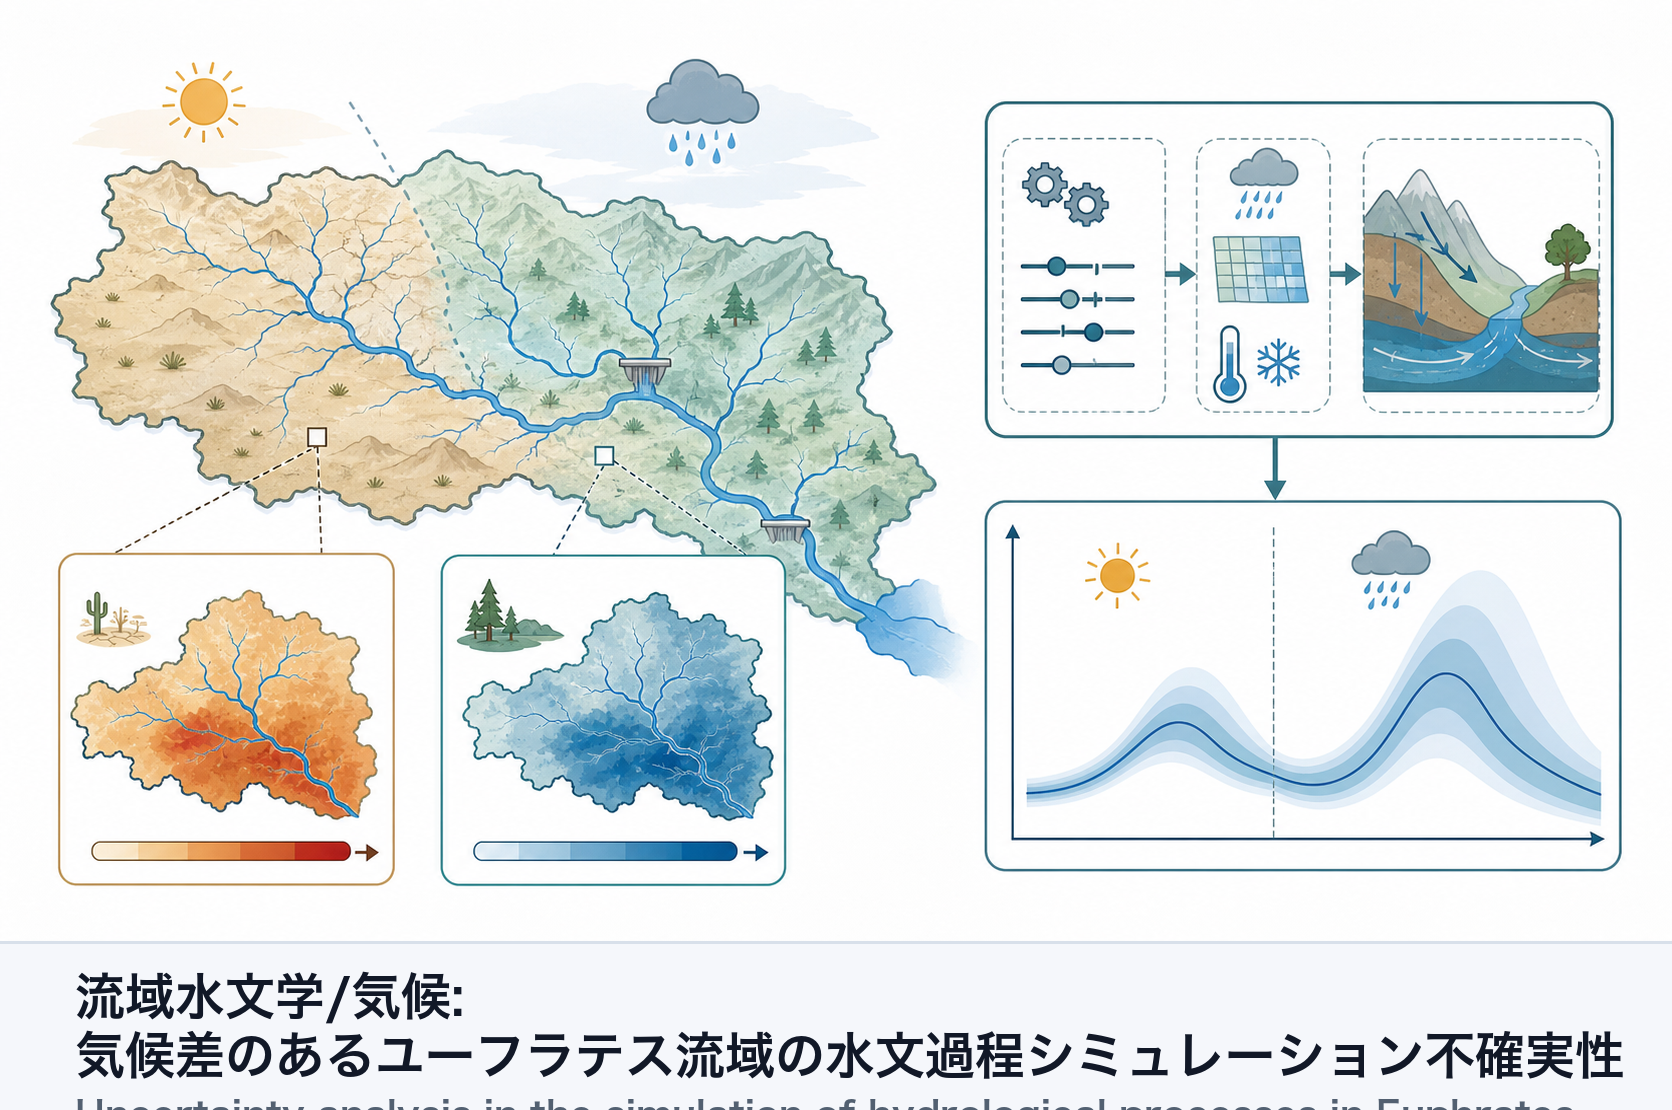
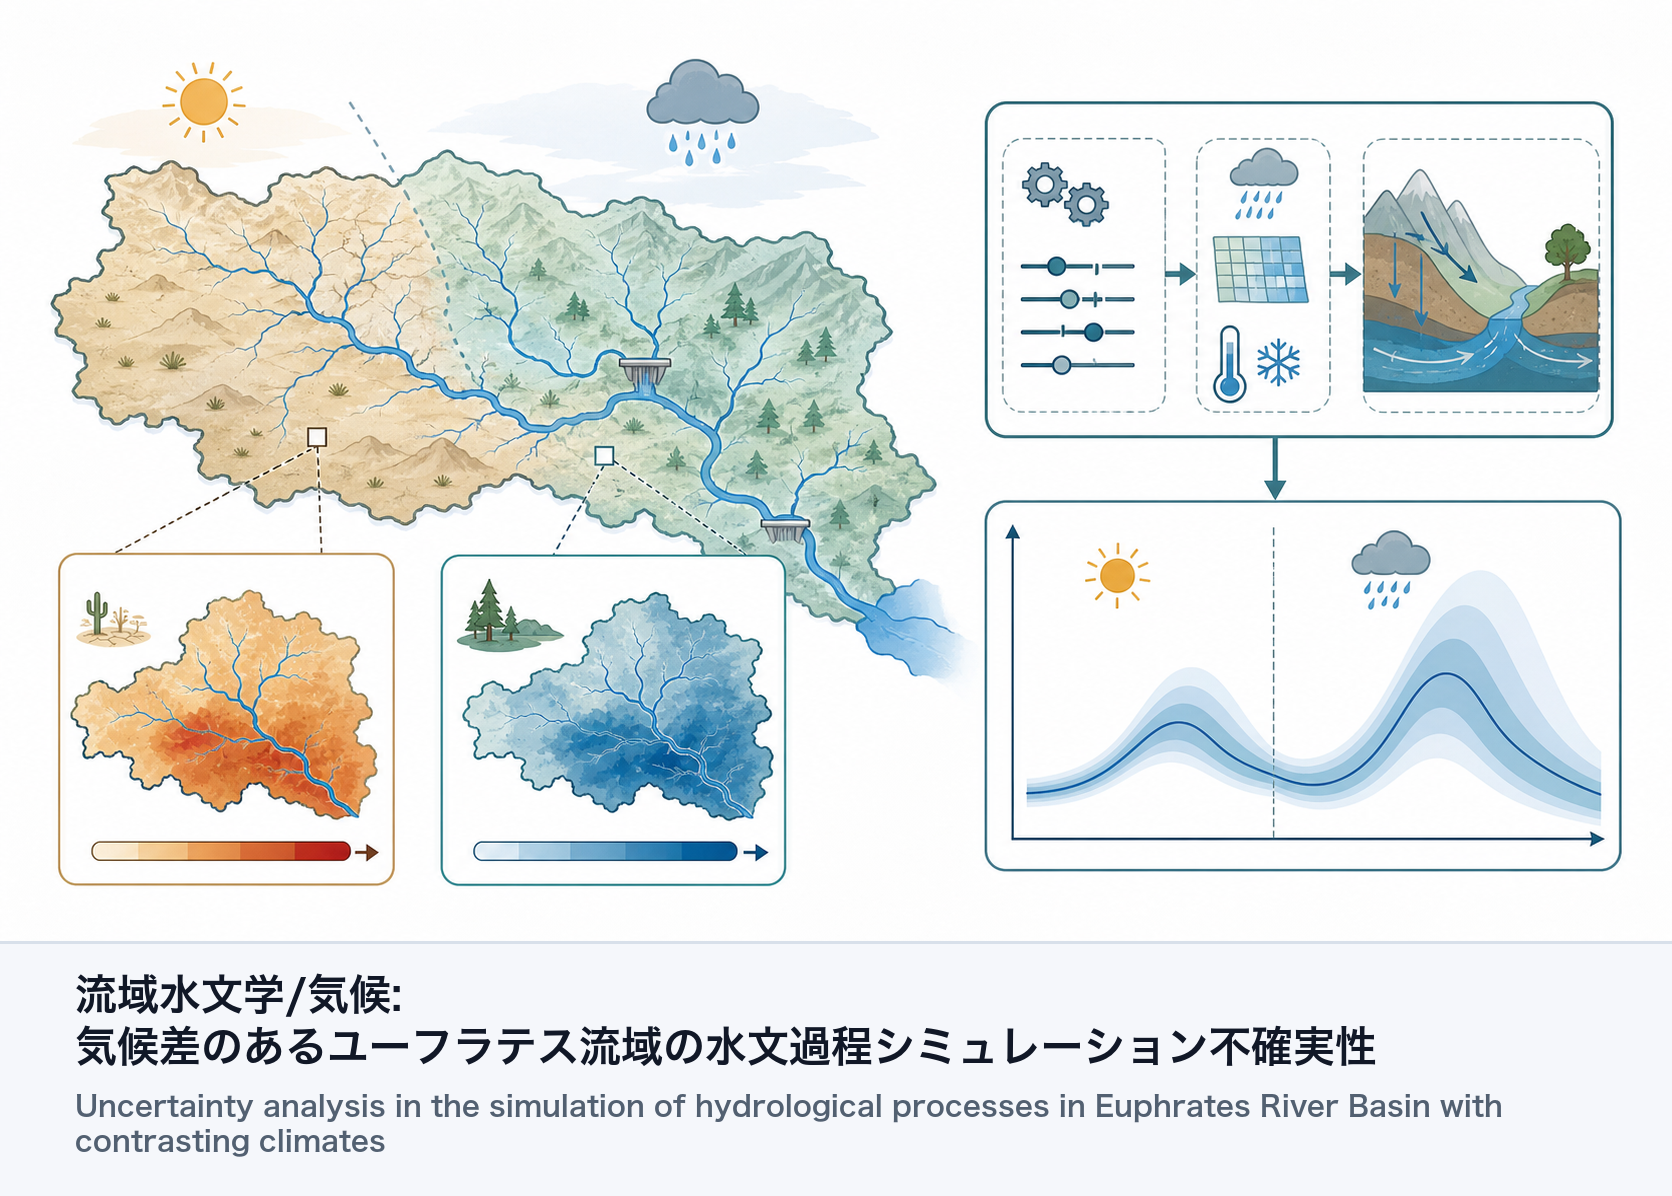
Fix 2026-05-25 graphical abstract captions

diff --git a/private/private_report_2026-05-25.html b/private/private_report_2026-05-25.html
@@ -41,7 +41,7 @@
 <body>
 	  <header>
 	    <h1>Daily ecology/evolution 24h report (private)</h1>
-	    <p>Date (JST): 2026-05-25 / generated (UTC): 2026-05-25T10:01:18Z</p>
+	    <p>Date (JST): 2026-05-25 / generated (UTC): 2026-05-25T11:47:13Z</p>
 	    <p>Policy: 論文の元図（出版社図）は埋め込みません（リンクのみ）。Graphical abstractは生成画像を埋め込みます。</p>
 	  </header>
   <nav>
@@ -71,7 +71,7 @@
 	  <section class="block">
 	    <h3>Graphical abstract (generated)</h3>
 	    <figure class="ga">
-	      <img src="../assets/image2/ga_2026-05-25_01_10-1038-s41598-026-50645-5.png" alt="Graphical abstract for 10.1038/s41598-026-50645-5">
+	      <img src="../assets/image2/ga_2026-05-25_01_10-1038-s41598-026-50645-5.png?v=caption-2" alt="Graphical abstract for 10.1038/s41598-026-50645-5">
 	    </figure>
 	  </section>
 
@@ -123,7 +123,7 @@
 	  <section class="block">
 	    <h3>Graphical abstract (generated)</h3>
 	    <figure class="ga">
-	      <img src="../assets/image2/ga_2026-05-25_02_10-1038-s41598-026-54737-0.png" alt="Graphical abstract for 10.1038/s41598-026-54737-0">
+	      <img src="../assets/image2/ga_2026-05-25_02_10-1038-s41598-026-54737-0.png?v=caption-2" alt="Graphical abstract for 10.1038/s41598-026-54737-0">
 	    </figure>
 	  </section>
 
@@ -175,7 +175,7 @@
 	  <section class="block">
 	    <h3>Graphical abstract (generated)</h3>
 	    <figure class="ga">
-	      <img src="../assets/image2/ga_2026-05-25_03_10-1038-s41598-026-54623-9.png" alt="Graphical abstract for 10.1038/s41598-026-54623-9">
+	      <img src="../assets/image2/ga_2026-05-25_03_10-1038-s41598-026-54623-9.png?v=caption-2" alt="Graphical abstract for 10.1038/s41598-026-54623-9">
 	    </figure>
 	  </section>
 
@@ -227,7 +227,7 @@
 	  <section class="block">
 	    <h3>Graphical abstract (generated)</h3>
 	    <figure class="ga">
-	      <img src="../assets/image2/ga_2026-05-25_04_10-1038-s41598-026-52149-8.png" alt="Graphical abstract for 10.1038/s41598-026-52149-8">
+	      <img src="../assets/image2/ga_2026-05-25_04_10-1038-s41598-026-52149-8.png?v=caption-2" alt="Graphical abstract for 10.1038/s41598-026-52149-8">
 	    </figure>
 	  </section>
 
@@ -279,7 +279,7 @@
 	  <section class="block">
 	    <h3>Graphical abstract (generated)</h3>
 	    <figure class="ga">
-	      <img src="../assets/image2/ga_2026-05-25_05_10-1038-s41598-026-49589-7.png" alt="Graphical abstract for 10.1038/s41598-026-49589-7">
+	      <img src="../assets/image2/ga_2026-05-25_05_10-1038-s41598-026-49589-7.png?v=caption-2" alt="Graphical abstract for 10.1038/s41598-026-49589-7">
 	    </figure>
 	  </section>
 
@@ -331,7 +331,7 @@
 	  <section class="block">
 	    <h3>Graphical abstract (generated)</h3>
 	    <figure class="ga">
-	      <img src="../assets/image2/ga_2026-05-25_06_10-1038-s41598-026-53304-x.png" alt="Graphical abstract for 10.1038/s41598-026-53304-x">
+	      <img src="../assets/image2/ga_2026-05-25_06_10-1038-s41598-026-53304-x.png?v=caption-2" alt="Graphical abstract for 10.1038/s41598-026-53304-x">
 	    </figure>
 	  </section>
 
@@ -383,7 +383,7 @@
 	  <section class="block">
 	    <h3>Graphical abstract (generated)</h3>
 	    <figure class="ga">
-	      <img src="../assets/image2/ga_2026-05-25_07_10-1038-s41598-026-52727-w.png" alt="Graphical abstract for 10.1038/s41598-026-52727-w">
+	      <img src="../assets/image2/ga_2026-05-25_07_10-1038-s41598-026-52727-w.png?v=caption-2" alt="Graphical abstract for 10.1038/s41598-026-52727-w">
 	    </figure>
 	  </section>
 
@@ -435,7 +435,7 @@
 	  <section class="block">
 	    <h3>Graphical abstract (generated)</h3>
 	    <figure class="ga">
-	      <img src="../assets/image2/ga_2026-05-25_08_10-1038-s41598-026-49431-0.png" alt="Graphical abstract for 10.1038/s41598-026-49431-0">
+	      <img src="../assets/image2/ga_2026-05-25_08_10-1038-s41598-026-49431-0.png?v=caption-2" alt="Graphical abstract for 10.1038/s41598-026-49431-0">
 	    </figure>
 	  </section>
 
